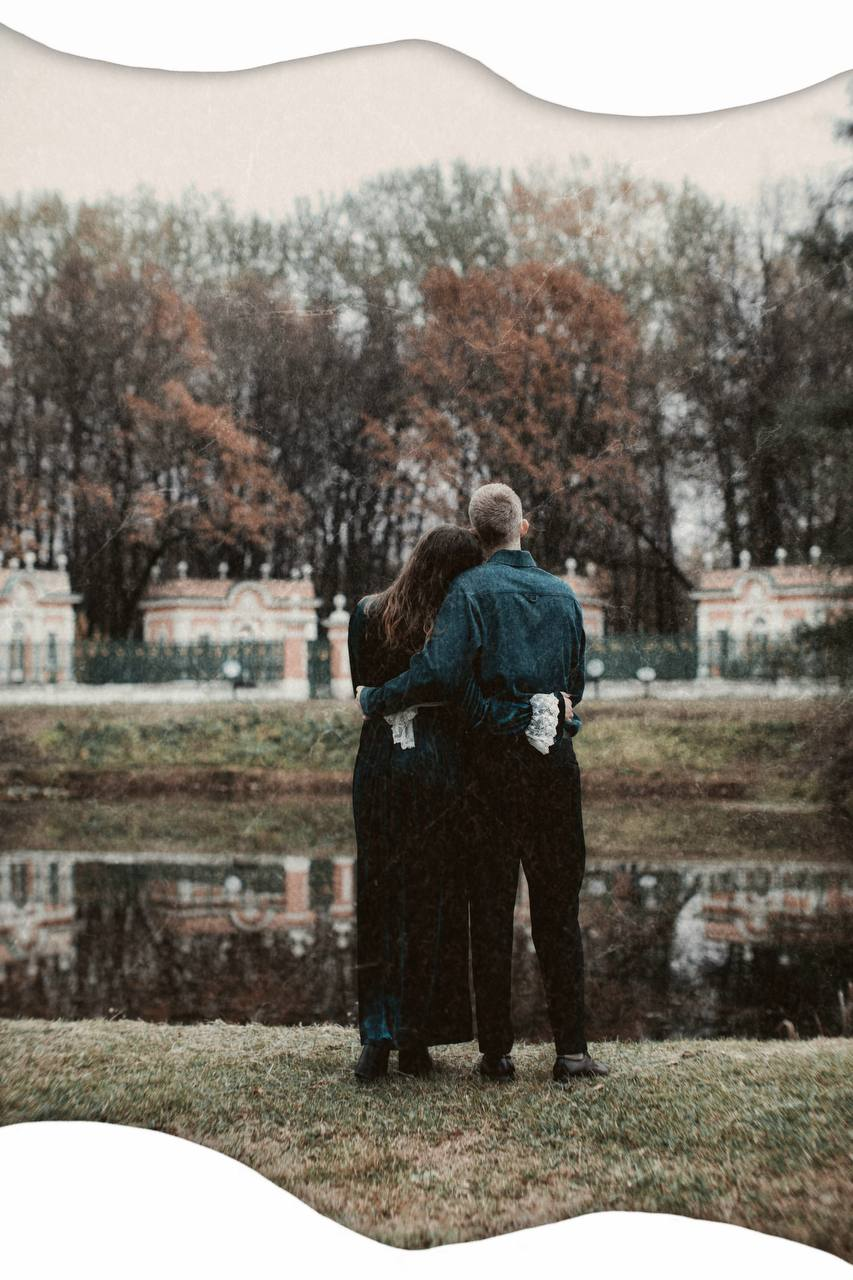
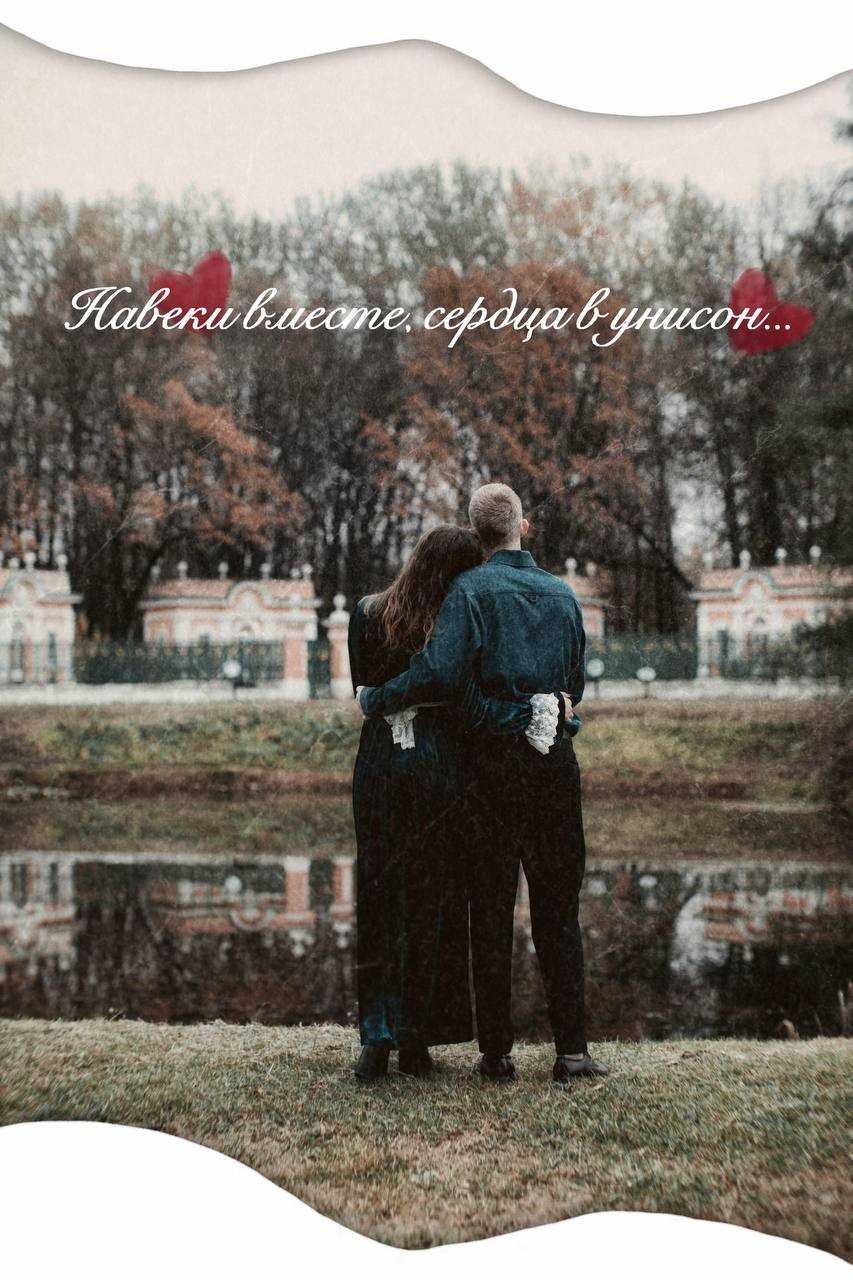
Финальные правки

Changed region(s): [[0.0914, 0.1875, 0.9449, 0.2812]]

diff --git a/index.html b/index.html
@@ -19,18 +19,9 @@
 </head>
 <body>
     <main class="flex flex-col items-center fade-in-on-scroll opacity-0 translate-y-5">
-        <!--Фраза-->
-        <div id="phrase" class="mx-4 my-8 text-center">
-            <p class="text-md great-vibes-regular">Навеки вместе, сердца в унисон.</p>
-        </div>
-
         <!--Начало-->
-        <div class="my-8 text-center fade-in-on-scroll opacity-0 translate-y-5">
-            <!--<div class="container p-8">
-                <h1 class="text-6xl">Михаил & Ольга</h1>
-            </div>-->
-
-            <div class="mt-4 flex justify-center">
+        <div class="mb-8 text-center fade-in-on-scroll opacity-0 translate-y-5">
+            <div class="flex justify-center">
                 <img class="w-full max-w-lg h-auto object-cover" src="static/img/2.jpg">
             </div>
         </div>
@@ -43,14 +34,9 @@
                     <p>Мы так долго ждали этого момента — возможности разделить с вами один из самых важных и счастливых дней в нашей жизни. С огромной радостью приглашаем вас на нашу свадьбу — день, когда мы официально станем семьей и начнем новую главу вместе.</p>
                 </div>
             </div>
-        </div>
-
-        <h2 class="text-6xl great-vibes-regular">09.09.2026</h2>
-        <div class="mt-4 flex justify-center">
-            <img class="w-full max-w-lg h-auto object-cover" src="static/img/187.jpg">
-        </div>
-
-        <div class="items-center text-center fade-in-on-scroll opacity-0 translate-y-5">
+            <div class="mt-4 flex justify-center">
+                <img class="w-full max-w-lg h-auto object-cover" src="static/img/date.jpg">
+            </div>
             <div class="container p-8">
                 <p class="p-8 comforta">Пожалуйста, подтвердите свое присутствие, заполнив анкету ниже</p>
                 <a href="https://forms.yandex.ru/u/68e95cc990fa7b3202e30c90" target="_blank">
@@ -89,24 +75,24 @@
                         </div>
 
                         <div class="flex flex-col items-center text-center">
-                            <svg xmlns="http://www.w3.org/2000/svg" class="w-7 h-7 md:w-10 md:h-10 sm:w-8 sm:h-8" viewBox="0 0 24 24">
+                            <svg xmlns="http://www.w3.org/2000/svg" class="w-6 h-6 md:w-10 md:h-10 sm:w-8 sm:h-8" viewBox="0 0 24 24">
                                 <path d="M18 9H4V8h14zm-5 3H4v1h9zm8-8v9h-1V5H2v13h9v1H1V4zm2.07 11.637l-.707-.707-5.863 5.863-2.863-2.863-.707.707 3.57 3.57z"/>
                                 <path fill="none" d="M0 0h24v24H0z"/>
                             </svg>
-                            <p class="text-lg sm:text-xl font-bold mt-1">13:00</p>
+                            <p class="text-lg sm:text-xl font-bold mt-1">12:45</p>  
                             <p class="text-sm sm:text-base mt-0.5">Регистрация</p>
                         </div>
 
                         <div class="flex flex-col items-center text-center">
-                            <svg xmlns="http://www.w3.org/2000/svg" fill="#000000" class="w-7 h-7 md:w-10 md:h-10 sm:w-8 sm:h-8" viewBox="0 -3 32 32" preserveAspectRatio="xMidYMid">
+                            <svg xmlns="http://www.w3.org/2000/svg" fill="#000000" class="w-6 h-6 md:w-10 md:h-10 sm:w-8 sm:h-8" viewBox="0 -3 32 32" preserveAspectRatio="xMidYMid">
                                 <path d="M29.000,26.000 L3.000,26.000 C1.346,26.000 -0.000,24.654 -0.000,23.000 L-0.000,7.000 C-0.000,5.346 1.346,4.000 3.000,4.000 L7.381,4.000 L9.102,0.554 C9.270,0.214 9.617,0.000 9.996,0.000 L22.006,0.000 C22.385,0.000 22.731,0.214 22.901,0.554 L24.619,4.000 L29.000,4.000 C30.654,4.000 32.000,5.346 32.000,7.000 L32.000,23.000 C32.000,24.654 30.654,26.000 29.000,26.000 ZM30.000,7.000 C30.000,6.449 29.551,6.000 29.000,6.000 L24.000,6.000 C23.950,6.000 23.907,5.979 23.859,5.972 C23.788,5.961 23.717,5.955 23.649,5.929 C23.588,5.906 23.537,5.869 23.482,5.834 C23.428,5.801 23.373,5.773 23.326,5.729 C23.273,5.680 23.235,5.620 23.194,5.560 C23.166,5.520 23.127,5.491 23.105,5.446 L21.387,2.000 L10.615,2.000 L8.895,5.446 C8.848,5.541 8.785,5.623 8.715,5.695 C8.701,5.710 8.684,5.719 8.669,5.733 C8.597,5.798 8.518,5.851 8.432,5.892 C8.403,5.907 8.375,5.919 8.344,5.931 C8.234,5.971 8.120,5.999 8.002,6.000 C8.001,6.000 8.001,6.000 8.000,6.000 L3.000,6.000 C2.449,6.000 2.000,6.449 2.000,7.000 L2.000,23.000 C2.000,23.551 2.449,24.000 3.000,24.000 L29.000,24.000 C29.551,24.000 30.000,23.551 30.000,23.000 L30.000,7.000 ZM16.000,21.000 C12.140,21.000 9.000,17.860 9.000,14.000 C9.000,10.140 12.140,7.000 16.000,7.000 C19.860,7.000 23.000,10.140 23.000,14.000 C23.000,17.860 19.860,21.000 16.000,21.000 ZM16.000,9.000 C13.243,9.000 11.000,11.243 11.000,14.000 C11.000,16.757 13.243,19.000 16.000,19.000 C18.757,19.000 21.000,16.757 21.000,14.000 C21.000,11.243 18.757,9.000 16.000,9.000 Z"/>
                             </svg>
-                            <p class="text-lg sm:text-xl font-bold mt-1">14:00</p>
+                            <p class="text-lg sm:text-xl font-bold mt-1">13:30</p>
                             <p class="text-sm sm:text-base mt-0.5">Фотосессия</p>
                         </div>
 
                         <div class="flex flex-col items-center text-center">
-                            <svg xmlns="http://www.w3.org/2000/svg" xmlns:xlink="http://www.w3.org/1999/xlink" fill="#000000" class="w-7 h-7 md:w-10 md:h-10 sm:w-8 sm:h-8" version="1.1" id="Layer_1" viewBox="0 0 512 512" xml:space="preserve">
+                            <svg xmlns="http://www.w3.org/2000/svg" xmlns:xlink="http://www.w3.org/1999/xlink" fill="#000000" class="w-6 h-6 md:w-10 md:h-10 sm:w-8 sm:h-8" version="1.1" id="Layer_1" viewBox="0 0 512 512" xml:space="preserve">
                                 <g>
                                     <g>
                                   		<path d="M476.767,423.726h-0.302c-3.815-96.362-70.396-176.996-158.672-202.996c0-0.015,0-0.026,0-0.039    c0-34.069-27.72-61.793-61.793-61.793s-61.793,27.724-61.793,61.793c0,0.013,0.008,0.024,0.008,0.039    c-88.994,26-154.865,106.633-158.68,202.996h-0.302C15.806,423.726,0,439.562,0,459.036c0,19.474,15.806,35.31,35.233,35.31    h441.535c19.427,0,35.233-15.836,35.233-35.31C512,439.562,496.194,423.726,476.767,423.726z M256,176.553    c22.807,0,41.41,17.455,43.686,39.67c-14.127-2.847-28.733-4.36-43.686-4.36c-14.954,0-29.559,1.513-43.686,4.36    C214.59,194.008,233.193,176.553,256,176.553z M256,229.519c108.996,0,198.207,86.336,202.845,194.207H97.551    c4.609-78.634,69.851-141.241,149.622-141.241c4.875,0,8.828-3.948,8.828-8.828s-3.953-8.828-8.828-8.828    c-89.503,0-162.643,70.528-167.277,158.897h-26.74C57.793,315.855,147.004,229.519,256,229.519z M476.767,476.691H35.233    c-9.694,0-17.578-7.922-17.578-17.655c0-9.733,7.884-17.655,17.578-17.655h8.905h423.724h8.905    c9.694,0,17.578,7.922,17.578,17.655C494.345,468.769,486.461,476.691,476.767,476.691z"/>
@@ -128,8 +114,8 @@
                                    	</g>
                                 </g>
                             </svg>
-                            <p class="text-lg sm:text-xl font-bold mt-1">15:00</p>
-                            <p class="text-sm sm:text-base mt-0.5">Банкет</p>
+                            <p class="text-lg sm:text-xl font-bold mt-1">16:00</p>
+                            <p class="text-sm sm:text-base mt-0.5">Торжество</p>
                         </div>
                     </div>
                 </div>
